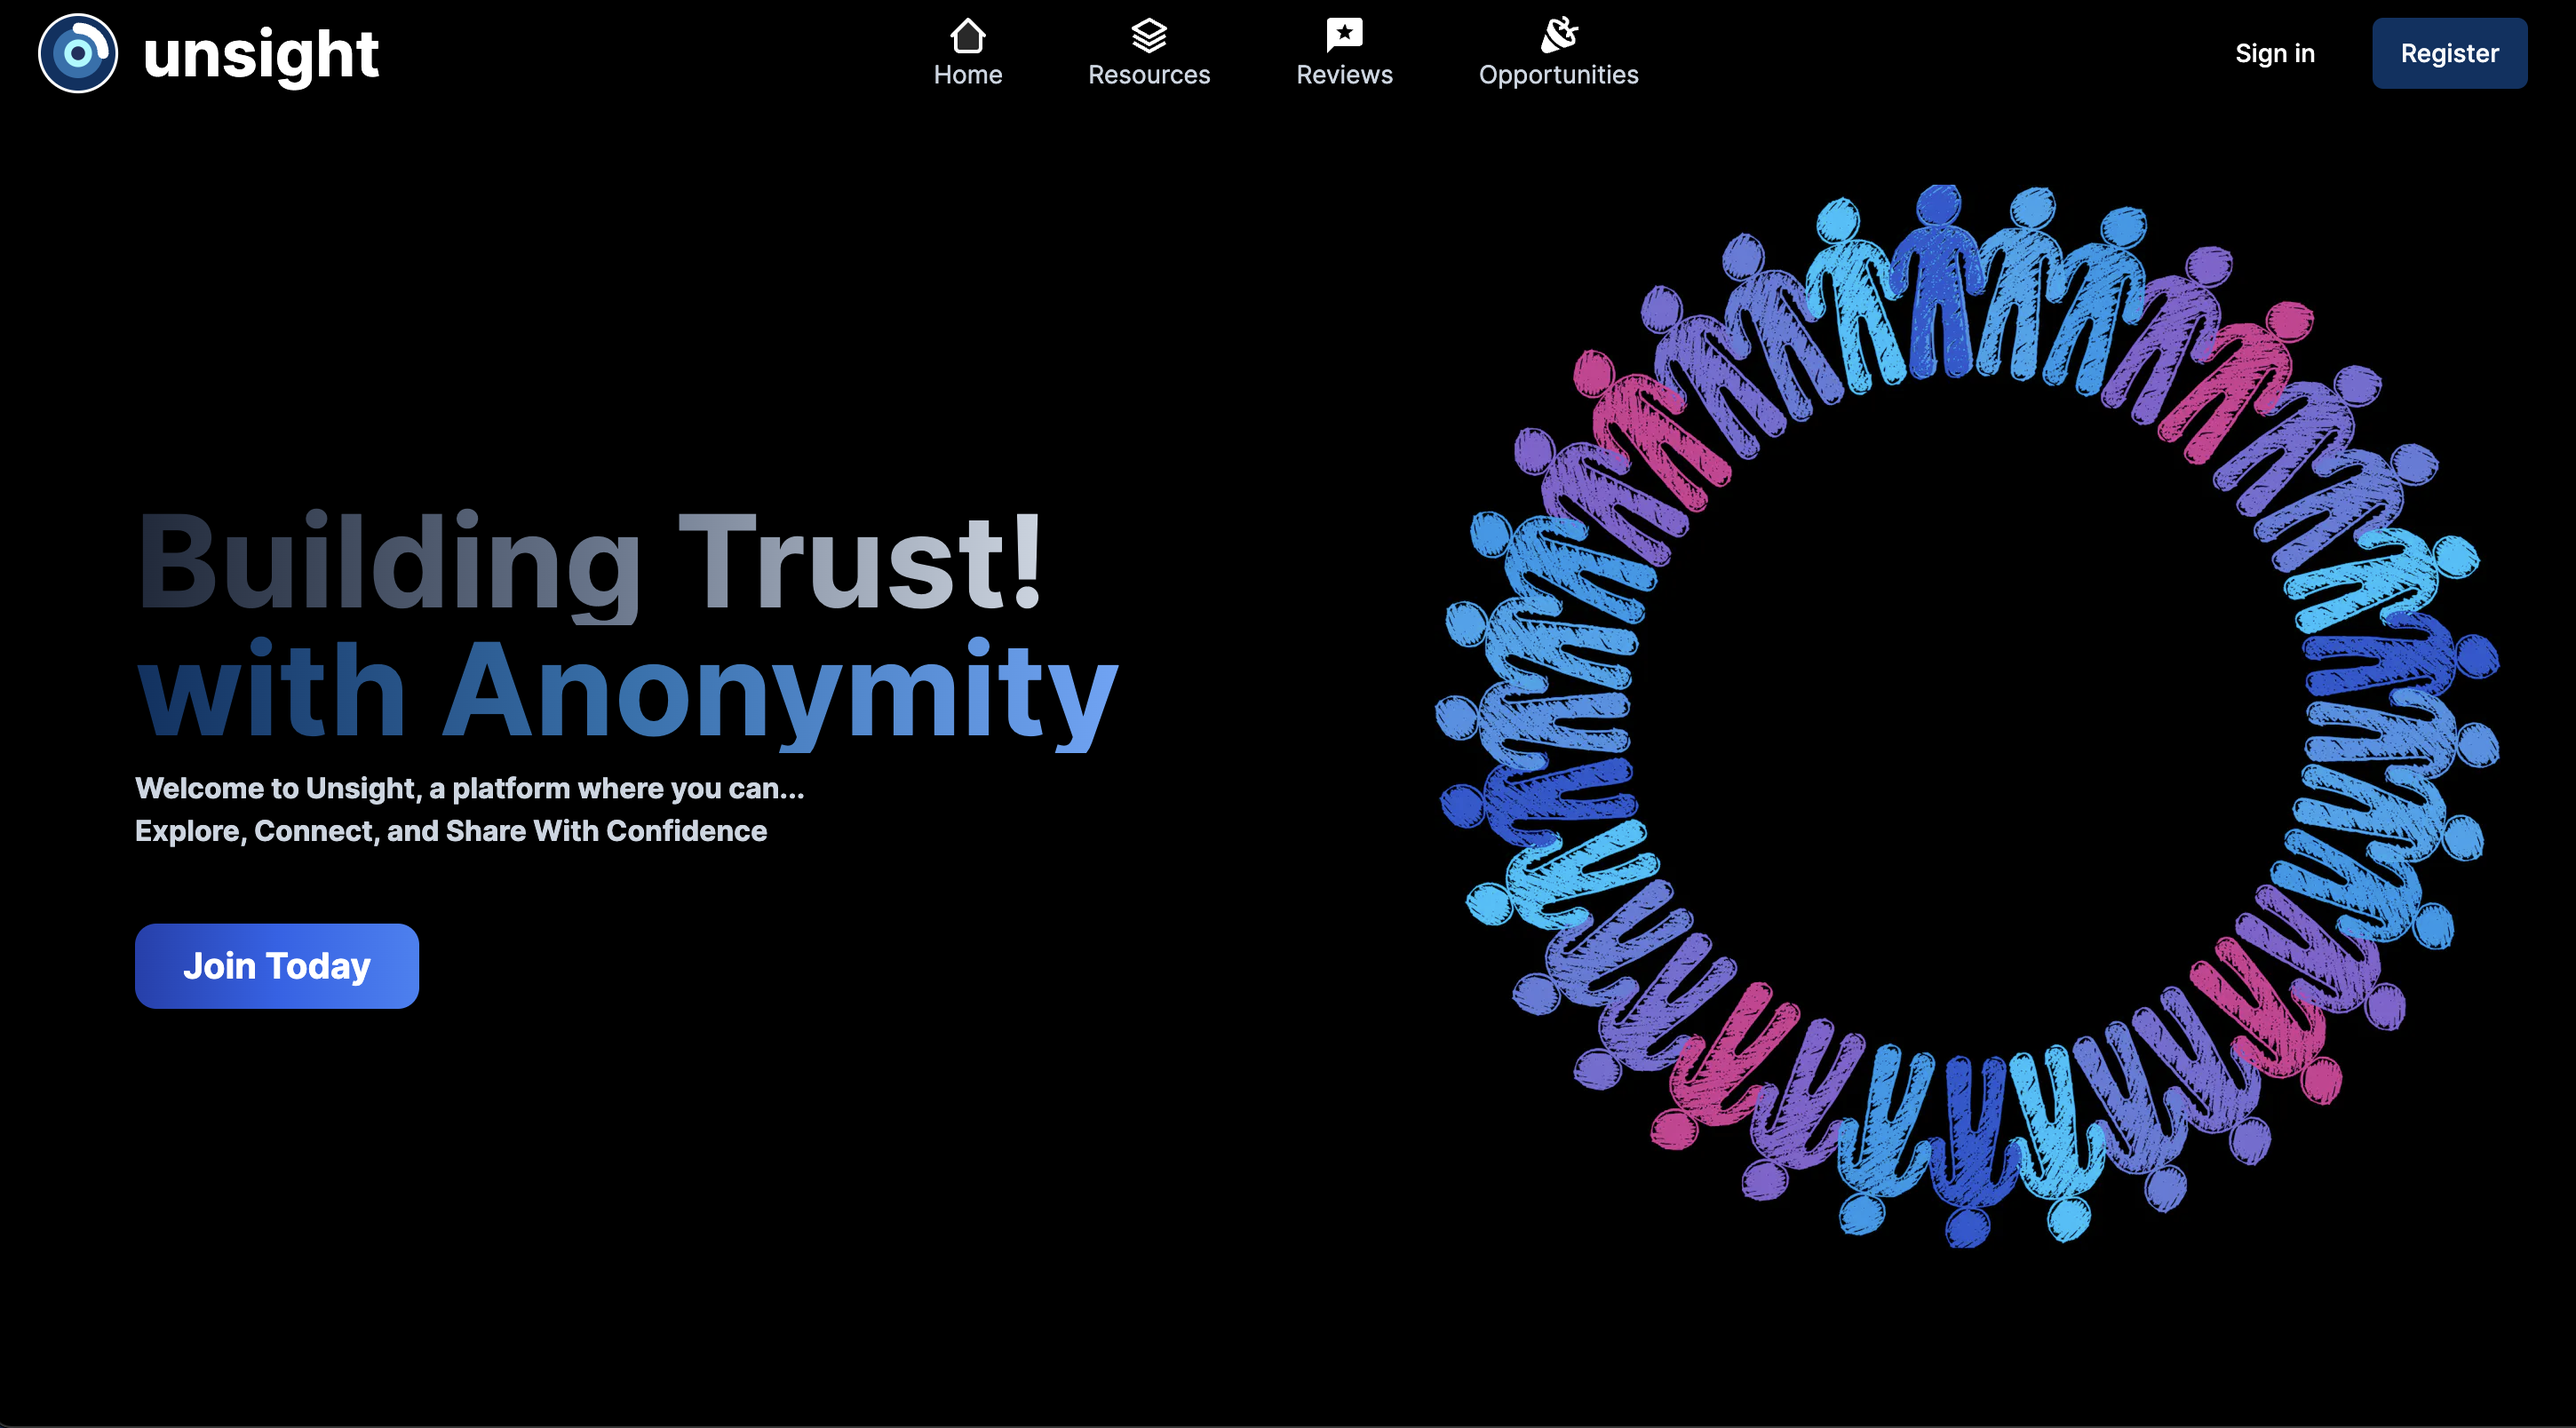
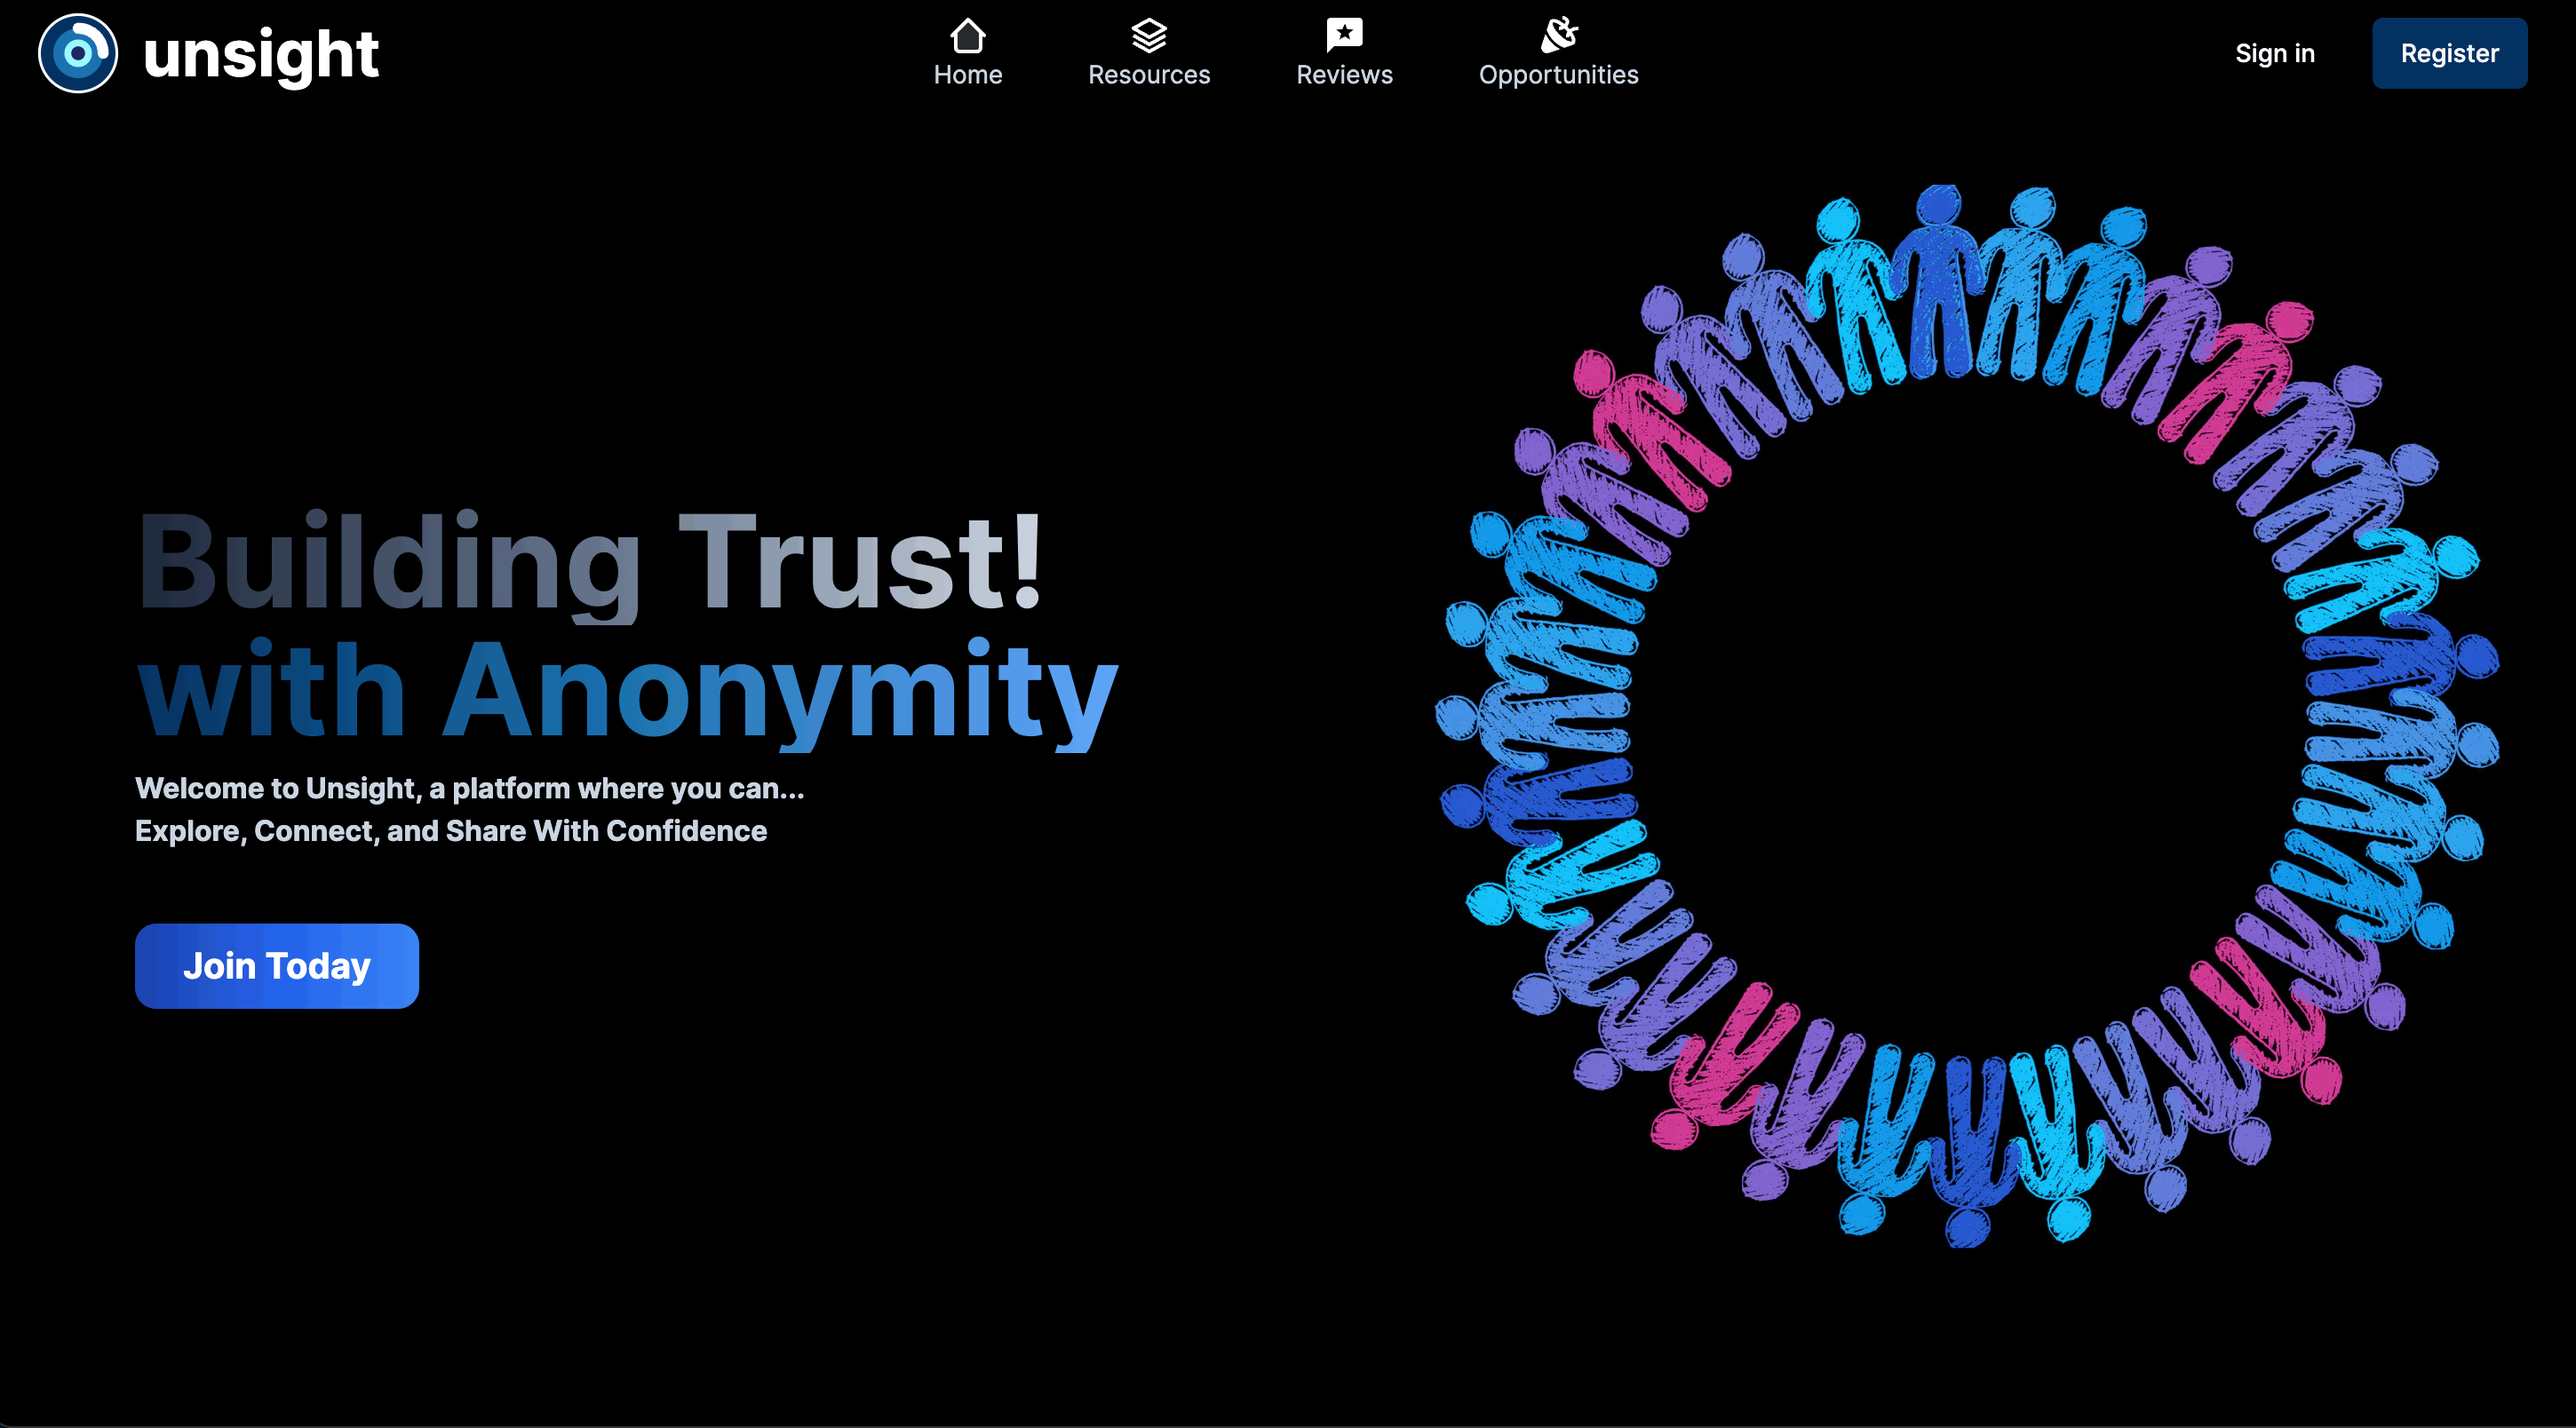
Updated OG title, image

diff --git a/config/site-config.ts b/config/site-config.ts
@@ -1,6 +1,6 @@
 import { Metadata } from "next";
 
-const TITLE = "Unsight - Join the global community of students with Anonymity";
+const TITLE = "Unsight - Join the global community of students!";
 const DESCRIPTION =
   "Interact in a global community of students. share thoughts, opportunities, resources and more, freely keeping your identity anonymous.";
 
